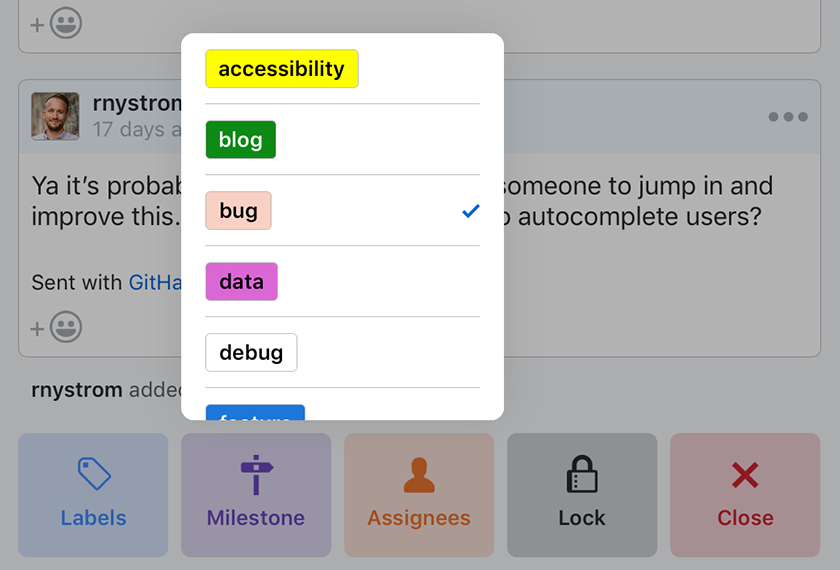
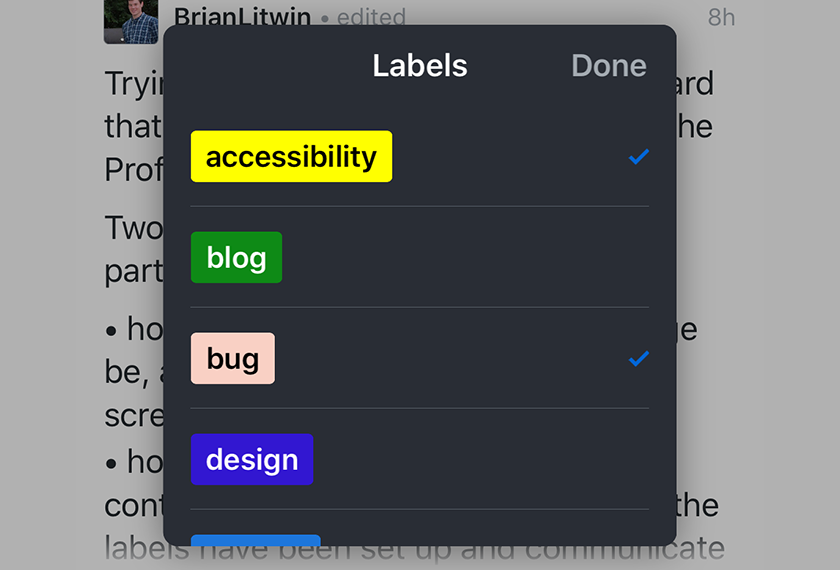
update to latest design and fix image link

diff --git a/index.html b/index.html
@@ -229,7 +229,7 @@
         <p>I&#39;ve been using <a href="https://twitter.com/githawk?ref_src=twsrc%5Etfw">@githawk</a> for almost a year now. I just had an extraordinary pleasant experience with it with respect to handling 6 different PRs. I just wanted to tell <a href="https://twitter.com/_ryannystrom?ref_src=twsrc%5Etfw">@_ryannystrom</a> &amp; <a href="https://twitter.com/BasThomas?ref_src=twsrc%5Etfw">@BasThomas</a> kudos and wanted to spread the word a bit. This app is a MUS HAVE dev tool!</p>
         <div class="author">
           <a href="https://twitter.com/ArtSabintsev/status/1007091186388094977?ref_src=twsrc%5Etfw">
-            <img src="https://pbs.twimg.com/profile_images/768174119129010176/78Lht6zw_bigger.jpg" />
+            <img src="https://pbs.twimg.com/profile_images/1029541879740653568/wfrafwrQ_bigger.jpg" />
             <h4>Arthur A. Sabintsev</h4>
           </a>
         </div>
